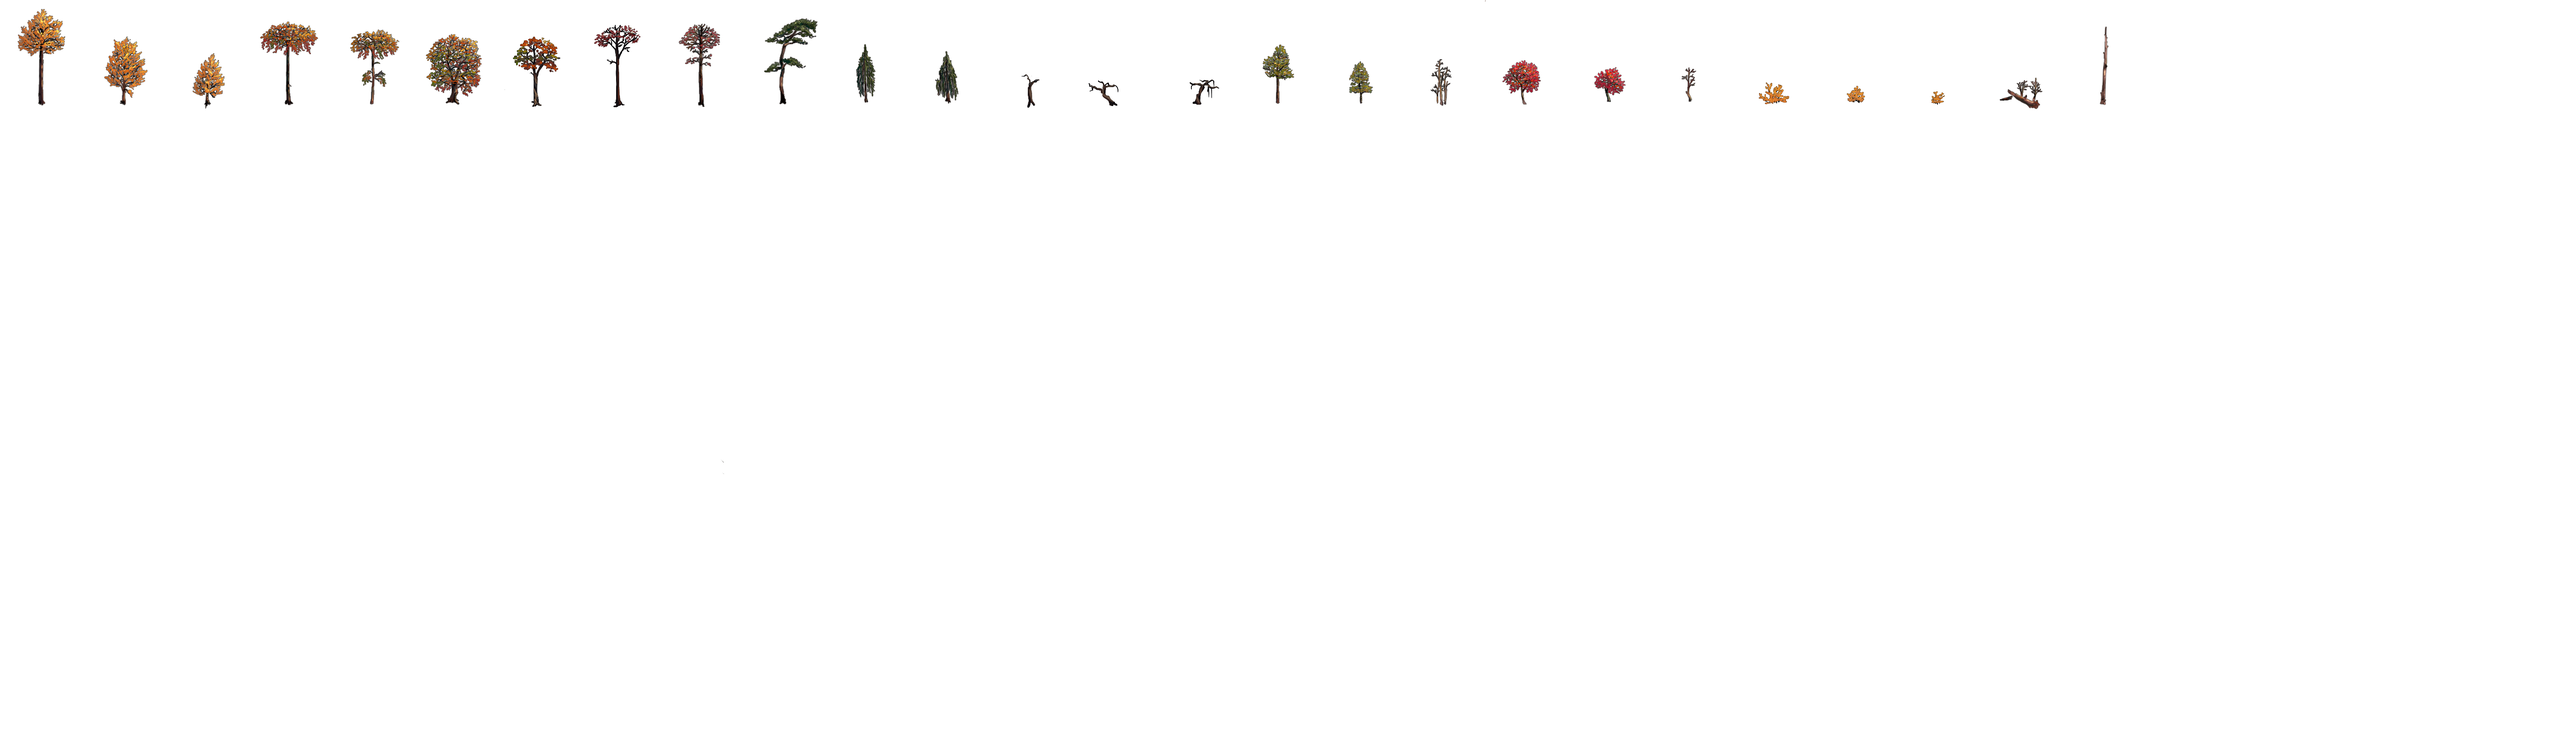
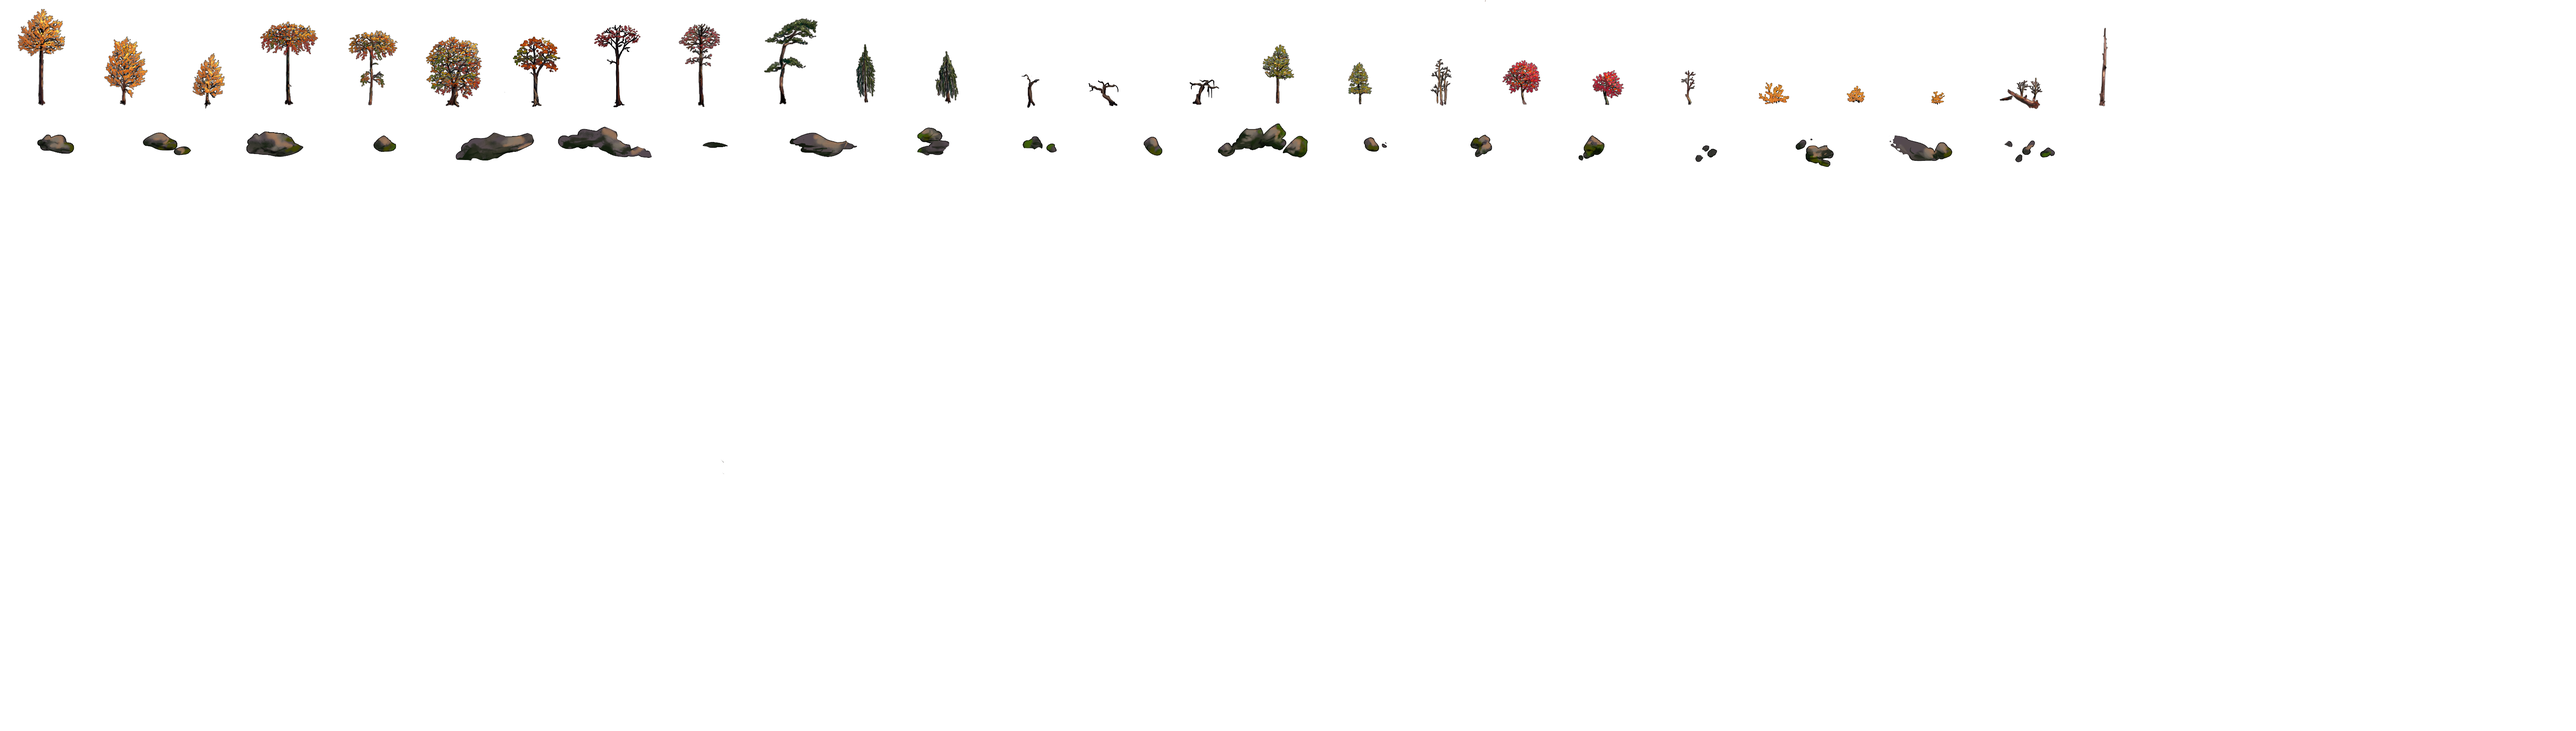
Implemented rocks; modified how shadows work.

diff --git a/core/src/com/majalis/screens/WorldMapScreen.java b/core/src/com/majalis/screens/WorldMapScreen.java
@@ -18,7 +18,9 @@ import com.badlogic.gdx.graphics.g2d.Animation;
 import com.badlogic.gdx.graphics.g2d.SpriteBatch;
 import com.badlogic.gdx.graphics.g2d.TextureRegion;
 import com.badlogic.gdx.graphics.g2d.Animation.PlayMode;
+import com.badlogic.gdx.graphics.g2d.Batch;
 import com.badlogic.gdx.graphics.glutils.FrameBuffer;
+import com.badlogic.gdx.math.Affine2;
 import com.badlogic.gdx.math.RandomXS128;
 import com.badlogic.gdx.math.Vector2;
 import com.badlogic.gdx.math.Vector3;
@@ -674,10 +676,10 @@ public class WorldMapScreen extends AbstractScreen {
 			actor.setColor(getTimeColor());
 		}
 		for (Actor actor : shadowGroup.getChildren()) {
-			actor.setColor(timeOfDay.getShadowColor());
-			actor.addAction(Actions.alpha(timeOfDay.getShadowAlpha()));
-			actor.setRotation(timeOfDay.getShadowDirection());
-			actor.setScaleY(timeOfDay.getShadowLength());	
+			Shadow shadow = (Shadow) actor;
+			shadow.setColor(timeOfDay.getShadowColor());
+			shadow.addAction(Actions.alpha(timeOfDay.getShadowAlpha()));
+			shadow.setSkew(timeOfDay.getShadowDirection(), timeOfDay.getShadowLength());
 		}
 	}
 	
@@ -739,6 +741,35 @@ public class WorldMapScreen extends AbstractScreen {
 		return 0;
 	}
 	
+	
+	private class Shadow extends Actor {
+
+		private final TextureRegion texture;
+		private Affine2 affine = new Affine2();
+		private float shadowDirection;
+		private float shadowLength;
+		
+		public Shadow(TextureRegion textureRegion) {
+			this.texture = textureRegion;
+		}
+
+		public void setSkew(float shadowDirection, float shadowLength) {
+			this.shadowDirection = shadowDirection;
+			this.shadowLength = shadowLength;			
+		}
+
+		@Override
+	    public void draw(Batch batch, float parentAlpha) {
+			Color color = getColor();
+			batch.setColor(color.r, color.g, color.b, color.a * parentAlpha);
+			//affine.setToTranslation(getX() + texture.getRegionWidth() + 10, getY() + (shadowLength));  // this needs to change as time of day changes to accommodate for the shear movem
+			//affine.rotate(180);
+			affine.setToTrnRotScl(getX() + texture.getRegionWidth() + (getOriginX()), getY() + (getOriginY()*2)+34, 180, 1, 1);
+	        affine.shear(shadowDirection, 0);  // this modifies the skew.  This kills the crab (V)O=O(V)
+			batch.draw(texture, texture.getRegionWidth(), texture.getRegionHeight() * shadowLength, affine);
+	    }
+	}
+	
 	private void generateBackground() {
 		backgroundRendered = true;
 		if (storyMode) {
@@ -751,21 +782,32 @@ public class WorldMapScreen extends AbstractScreen {
 			/* MODELLING - SHOULD BE MOVED TO GAME WORLD GEN */
 			
 			Array<Array<GroundType>> ground = new Array<Array<GroundType>>();
-			Array<Image> trees = new Array<Image>();
-			Array<Image> shadows = new Array<Image>();
-			Array<Image> rocks = new Array<Image>();			
+			Array<Image> doodads = new Array<Image>();
+			Array<Shadow> shadows = new Array<Shadow>();		
 			
-			Texture treeTexturesSheet = assetManager.get(AssetEnum.DOODADS.getTexture());
+			Texture doodadTextureSheet = assetManager.get(AssetEnum.DOODADS.getTexture());
 			Array<TextureRegion> treeTextures = new Array<TextureRegion>();
-			Array<TextureRegion> shadowTextures = new Array<TextureRegion>();
+			Array<TextureRegion> treeShadowTextures = new Array<TextureRegion>();
 			int treeArraySize = 26;
 			int treeWidth = 192;
 			int treeHeight = 256;
 			for (int ii = 0; ii < treeArraySize; ii++) {
-				treeTextures.add(new TextureRegion(treeTexturesSheet, ii * treeWidth, 0, treeWidth, treeHeight));
-				TextureRegion shadowTexture = new TextureRegion(treeTexturesSheet, ii * treeWidth, 0, treeWidth, treeHeight);
+				treeTextures.add(new TextureRegion(doodadTextureSheet, ii * treeWidth, 0, treeWidth, treeHeight));
+				TextureRegion shadowTexture = new TextureRegion(doodadTextureSheet, ii * treeWidth, 0, treeWidth, treeHeight);
 				shadowTexture.flip(true, false);
-				shadowTextures.add(shadowTexture);
+				treeShadowTextures.add(shadowTexture);
+			}
+			
+			Array<TextureRegion> rockTextures = new Array<TextureRegion>();
+			Array<TextureRegion> rockShadowTextures = new Array<TextureRegion>();
+			int rockArraySize = 19;
+			int rockWidth = 256;
+			int rockHeight = 128;
+			for (int ii = 0; ii < rockArraySize; ii++) {
+				rockTextures.add(new TextureRegion(doodadTextureSheet, ii * rockWidth, treeHeight, rockWidth, rockHeight));
+				TextureRegion shadowTexture = new TextureRegion(doodadTextureSheet, ii * rockWidth, treeHeight, rockWidth, rockHeight);
+				shadowTexture.flip(true, false);
+				rockShadowTextures.add(shadowTexture);
 			}
 			
 			int xScreenBuffer = 683;
@@ -801,26 +843,52 @@ public class WorldMapScreen extends AbstractScreen {
 						if (random.nextInt() % 20 == 0) {
 							int chosenTree = Math.abs(random.nextInt() % treeArraySize);
 							Image tree = new Image(treeTextures.get(chosenTree));
-							Image shadow = new Image(shadowTextures.get(chosenTree));
+							Shadow shadow = new Shadow(treeShadowTextures.get(chosenTree));
 							int trueX = getTrueX(x) - (int)tree.getWidth() / 2 + tileWidth / 2;
 							int trueY = getTrueY(x, y) + tileHeight / 2;
 							tree.setPosition(trueX , trueY);
 							shadow.setPosition(trueX, trueY);
-							shadow.setOrigin(shadow.getWidth() / 2, 16);
+							//shadow.setOrigin(shadow.getWidth() / 2, 16);
 							
 							boolean treeInserted = false;
 							int ii = 0;
-							for (Image treeCompare : trees) {
-								if (tree.getY() > treeCompare.getY()) {
+							for (Image compare : doodads) {
+								if (tree.getY() > compare.getY()) {
 									treeInserted = true;
-									trees.insert(ii, tree);
+									doodads.insert(ii, tree);
 									shadows.insert(ii, shadow);
 									break;
 								}
 								ii++;
 							}
 							if (!treeInserted) {
-								trees.add(tree);
+								doodads.add(tree);
+								shadows.add(shadow);
+							}
+						}
+						else if (random.nextInt() % 20 == 0) {
+							int chosenRock = Math.abs(random.nextInt() % rockArraySize);
+							Image rock = new Image(rockTextures.get(chosenRock));
+							Shadow shadow = new Shadow(rockShadowTextures.get(chosenRock));
+							int trueX = getTrueX(x) - (int)rock.getWidth() / 2 + tileWidth / 2;
+							int trueY = getTrueY(x, y) + tileHeight / 2;
+							rock.setPosition(trueX , trueY);
+							shadow.setPosition(trueX, trueY);
+							shadow.setOrigin(shadow.getWidth() / 2, 16);
+							
+							boolean rockInserted = false;
+							int ii = 0;
+							for (Image compare : doodads) {
+								if (rock.getY() > compare.getY()) {
+									rockInserted = true;
+									doodads.insert(ii, rock);
+									shadows.insert(ii, shadow);
+									break;
+								}
+								ii++;
+							}
+							if (!rockInserted) {
+								doodads.add(rock);
 								shadows.add(shadow);
 							}
 						}
@@ -928,12 +996,8 @@ public class WorldMapScreen extends AbstractScreen {
 				shadowGroup.addActor(shadow);
 			}
 			
-			for (Actor tree : trees) {
-				worldGroup.addActor(tree);
-			}
-			
-			for (Actor rock : rocks) {
-				worldGroup.addActor(rock);
+			for (Actor doodad : doodads) {
+				worldGroup.addActor(doodad);
 			}		
 			
 			addWorldActors();

diff --git a/core/src/com/majalis/screens/TimeOfDay.java b/core/src/com/majalis/screens/TimeOfDay.java
@@ -3,22 +3,22 @@ package com.majalis.screens;
 import com.badlogic.gdx.graphics.Color;
 
 public enum TimeOfDay {
-	DAWN ("Dawn", getColor(156, 154, 32), getColor(0, 0, 0), .5f, 110, 1.2f),
-	MORNING ("Morning", getColor(255, 255, 214), getColor(0, 0, 0), .7f, 142, .8f),
-	AFTERNOON ("Afternoon", getColor(255, 255, 255), getColor(0, 0, 0), .8f, 165, .7f),
-	DUSK ("Dusk", getColor(246, 212, 181), getColor(0, 0, 0), .7f, 206, .8f),
-	EVENING ("Evening", getColor(75, 125, 217), getColor(0, 0, 0), .5f, 238, 1.4f),
-	NIGHT ("Night", getColor(35, 55, 120), getColor(0, 0, 0), .3f, 40, .5f)
+	DAWN ("Dawn", getColor(156, 154, 32), getColor(0, 0, 0), .5f, 1, 1.2f),
+	MORNING ("Morning", getColor(255, 255, 214), getColor(0, 0, 0), .7f, .5f, .8f),
+	AFTERNOON ("Afternoon", getColor(255, 255, 255), getColor(0, 0, 0), .8f, .1f, .7f),
+	DUSK ("Dusk", getColor(246, 212, 181), getColor(0, 0, 0), .7f, -.2f, .8f),
+	EVENING ("Evening", getColor(75, 125, 217), getColor(0, 0, 0), .5f, -1f, 1.2f),
+	NIGHT ("Night", getColor(35, 55, 120), getColor(0, 0, 0), .0f, 40, .5f)
 	;
 
 	private final String display;
 	private final Color color;
 	private final Color shadowColor;
 	private final float shadowAlpha;
-	private final int shadowDirection;
+	private final float shadowDirection;
 	private final float shadowLength;
 	
-	private TimeOfDay(String display, Color color, Color shadowColor, float shadowAlpha, int shadowDirection, float shadowLength) {
+	private TimeOfDay(String display, Color color, Color shadowColor, float shadowAlpha, float shadowDirection, float shadowLength) {
 		this.display = display;
 		this.color = color;
 		this.shadowColor = shadowColor;
@@ -33,7 +33,7 @@ public enum TimeOfDay {
 	public Color getColor() { return color; }
 	public Color getShadowColor() { return shadowColor; }
 	public float getShadowAlpha() { return shadowAlpha; }
-	public int getShadowDirection() { return shadowDirection; }
+	public float getShadowDirection() { return shadowDirection; }
 	public float getShadowLength() { return shadowLength; } 
 	public static TimeOfDay getTime(int time) { return TimeOfDay.values()[time % 6]; }
 
